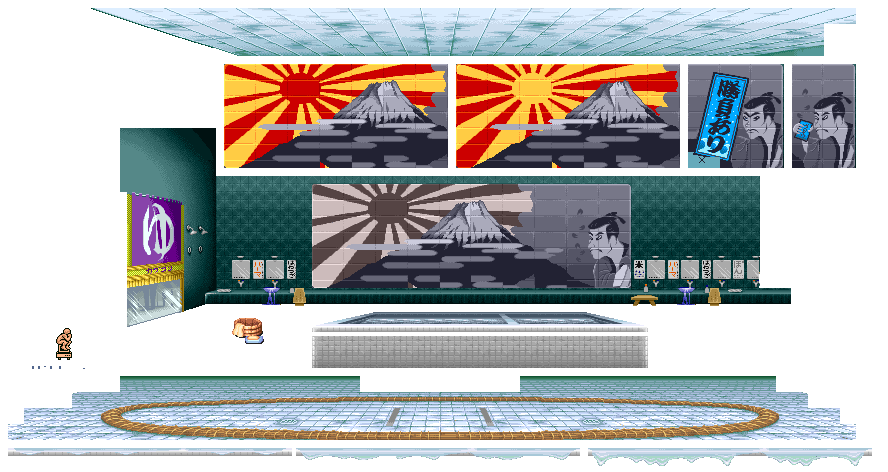
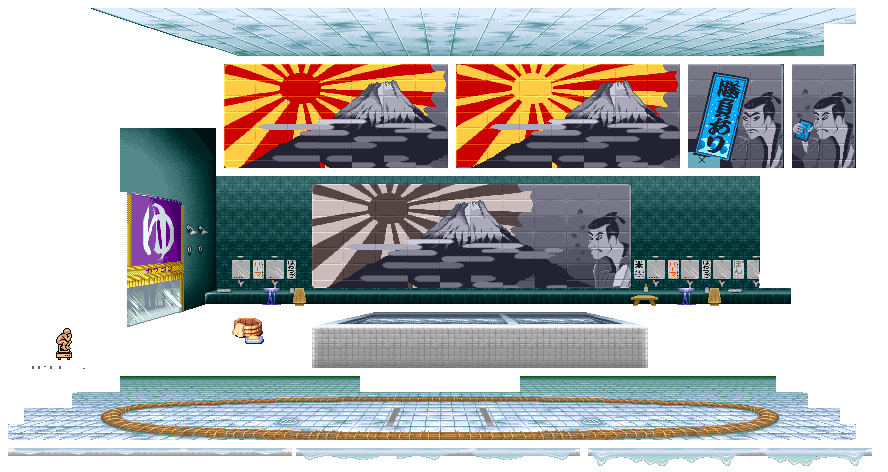
Honda Scene finished / Scene transition

Changed region(s): [[0.3345, 0.6822, 0.7297, 0.7415]]

diff --git a/Application.cpp b/Application.cpp
@@ -22,15 +22,17 @@ Application::Application()
 	modules.push_back(audio = new ModuleAudio());
 
 	// Game Modules
-	modules.push_back(scene_honda = new ModuleSceneHonda(false));
-	//modules.push_back(scene_ken = new ModuleSceneKen(false));
+	scene_honda = new ModuleSceneHonda(false);
+	currentScene = scene_ken = new ModuleSceneKen(false);	
+	modules.push_back(scene_ken);
+	modules.push_back(scene_honda);
 	modules.push_back(player = new ModulePlayer(false));
 	modules.push_back(fade = new ModuleFadeToBlack());
 }
 
 Application::~Application()
 {
-	for(list<Module*>::iterator it = modules.begin(); it != modules.end(); ++it)
+	for (list<Module*>::iterator it = modules.begin(); it != modules.end(); ++it)
 		RELEASE(*it);
 }
 
@@ -38,23 +40,35 @@ bool Application::Init()
 {
 	bool ret = true;
 
-	for(list<Module*>::iterator it = modules.begin(); it != modules.end() && ret; ++it)
+	for (list<Module*>::iterator it = modules.begin(); it != modules.end() && ret; ++it)
 		ret = (*it)->Init(); // we init everything, even if not anabled
 
-	for(list<Module*>::iterator it = modules.begin(); it != modules.end() && ret; ++it)
+	for (list<Module*>::iterator it = modules.begin(); it != modules.end() && ret; ++it)
 	{
-		if((*it)->IsEnabled() == true)
+		if ((*it)->IsEnabled() == true)
 			ret = (*it)->Start();
 	}
 
 	// Start the first scene --
-	fade->FadeToBlack(scene_honda, nullptr, 3.0f);
+	fade->FadeToBlack(currentScene, nullptr, 3.0f);
 
 	return ret;
 }
 
 update_status Application::Update()
 {
+	if (App->input->GetKey(SDL_SCANCODE_SPACE) == KEY_DOWN)
+	{
+		if (currentScene == scene_ken) {
+			currentScene = scene_honda;			
+			fade->FadeToBlack(scene_honda, scene_ken, 3.0f);
+		}
+		else
+		{
+			currentScene = scene_ken;
+			fade->FadeToBlack(scene_ken, scene_honda, 3.0f);
+		}		
+	}
 	update_status ret = UPDATE_CONTINUE;
 
 	for(list<Module*>::iterator it = modules.begin(); it != modules.end() && ret == UPDATE_CONTINUE; ++it)

diff --git a/ModuleSceneHonda.cpp b/ModuleSceneHonda.cpp
@@ -32,6 +32,21 @@ ModuleSceneHonda::ModuleSceneHonda(bool start_enabled) : Module(start_enabled)
 	ceiling.y = 0;
 	ceiling.w = 782;
 	ceiling.h = 60;
+
+	pool.x = 310;
+	pool.y = 311;
+	pool.w = 339;
+	pool.h = 58;
+
+	water.frames.push_back({ 8, 448, 284, 8 });
+	water.frames.push_back({ 296, 448, 284, 12 });
+	water.frames.push_back({ 588, 448, 284, 19 });
+	water.speed = 0.1f;
+
+	fuji.frames.push_back({224, 64, 224, 104});
+	fuji.frames.push_back({ 456, 64, 224, 104 });	
+	fuji.speed = 0.05f;
+
 }
 
 
@@ -44,15 +59,18 @@ bool ModuleSceneHonda::Start()
 	LOG("Loading honda scene");
 	graphics = App->textures->Load("honda_stage.png");
 	App->player->Enable();
-	//App->audio->PlayMusic("honda.ogg");
+	App->audio->PlayMusic("honda.ogg");
 	return true;
 }
 
 update_status ModuleSceneHonda::Update()
 {	
-	App->renderer->Blit(graphics, -85, 178, &ground, 0.9f);
+	App->renderer->Blit(graphics, -85, 178, &ground, 0.9f);	
 	App->renderer->Blit(graphics, -50, 48, &background, 0.55f);	
+	App->renderer->Blit(graphics, 137, 55, &(fuji.GetCurrentFrame()), 0.55f);
 	App->renderer->Blit(graphics, -57, 28, &side, 0.55f);
+	App->renderer->Blit(graphics, 90, 121, &pool, 0.6f);
+	App->renderer->Blit(graphics, 116, 134, &(water.GetCurrentFrame()), 0.6f);
 	App->renderer->Blit(graphics, -120, -8, &ceiling, 0.69f);
 	return UPDATE_CONTINUE;
 }

diff --git a/ModulePlayer.h b/ModulePlayer.h
@@ -39,7 +39,6 @@ public:
 	SDL_Texture* kameEffectCharged = nullptr;
 	SDL_Texture* blackFilter = nullptr;
 	SDL_Texture* blueFilter = nullptr;
-	SDL_Texture* ryuKame = nullptr;
 	SDL_Rect ryuKameRect;
 	SDL_Rect kameRect;
 	SDL_Rect background;

diff --git a/ModulePlayer.cpp b/ModulePlayer.cpp
@@ -82,7 +82,7 @@ ModulePlayer::ModulePlayer(bool start_enabled) : Module(start_enabled)
 
 ModulePlayer::~ModulePlayer()
 {
-	// Homework : check for memory leaks
+
 }
 
 // Load assets

diff --git a/ModuleSceneHonda.h b/ModuleSceneHonda.h
@@ -22,6 +22,10 @@ public:
 	SDL_Rect background;
 	SDL_Rect side;
 	SDL_Rect ceiling;
+	SDL_Rect pool;
+
+	Animation water;
+	Animation fuji;
 
 };
 

diff --git a/Application.h b/Application.h
@@ -36,6 +36,7 @@ public:
 	ModulePlayer* player;
 	ModuleSceneKen* scene_ken;
 	ModuleSceneHonda* scene_honda;
+	Module* currentScene;
 
 private:
 
